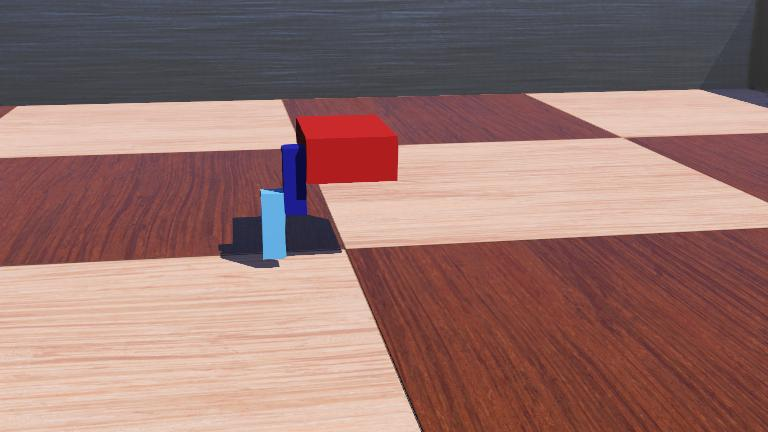
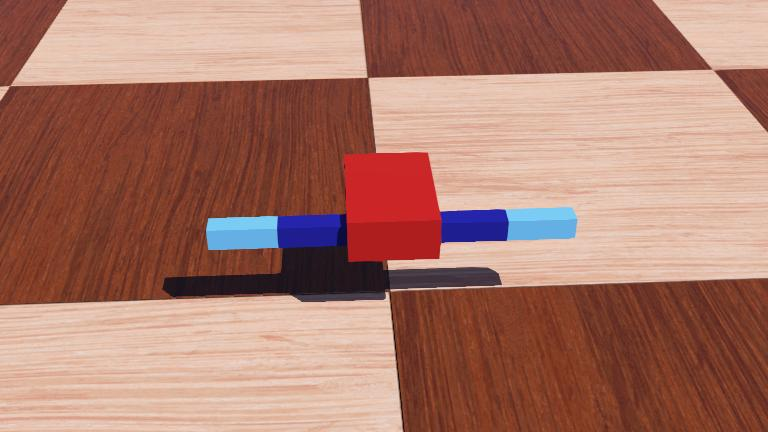
Passage en mode araignée de la jambe + ajout leg 2

diff --git a/simulation/controllers/MinikameAvance/MinikameAvance.cpp b/simulation/controllers/MinikameAvance/MinikameAvance.cpp
@@ -33,8 +33,8 @@ int main(int argc, char **argv) {
   //  Motor *motor = robot->getMotor("motorname");
   //  DistanceSensor *ds = robot->getDistanceSensor("dsname");
   //  ds->enable(timeStep);
-  Motor *motor_hip = robot->getMotor("hip_motor1");
-  Motor *motor_knee = robot->getMotor("knee_motor1");
+  Motor *motor_hip = robot->getMotor("hip_motor2");
+  Motor *motor_knee = robot->getMotor("knee_motor2");
 
   // Main loop:
   // - perform simulation steps until Webots is stopping the controller
